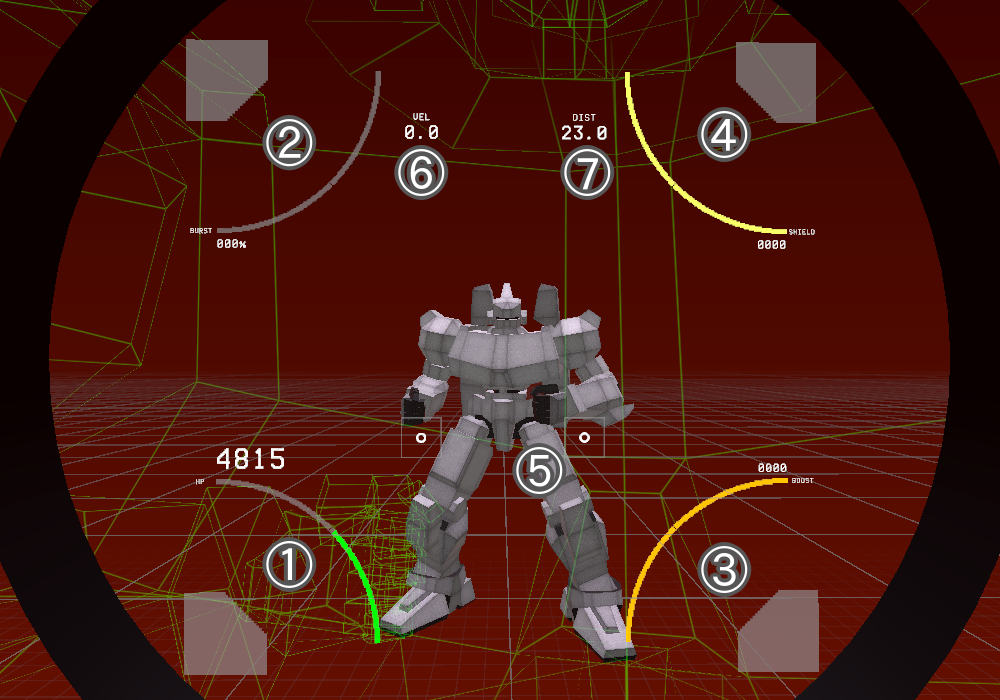
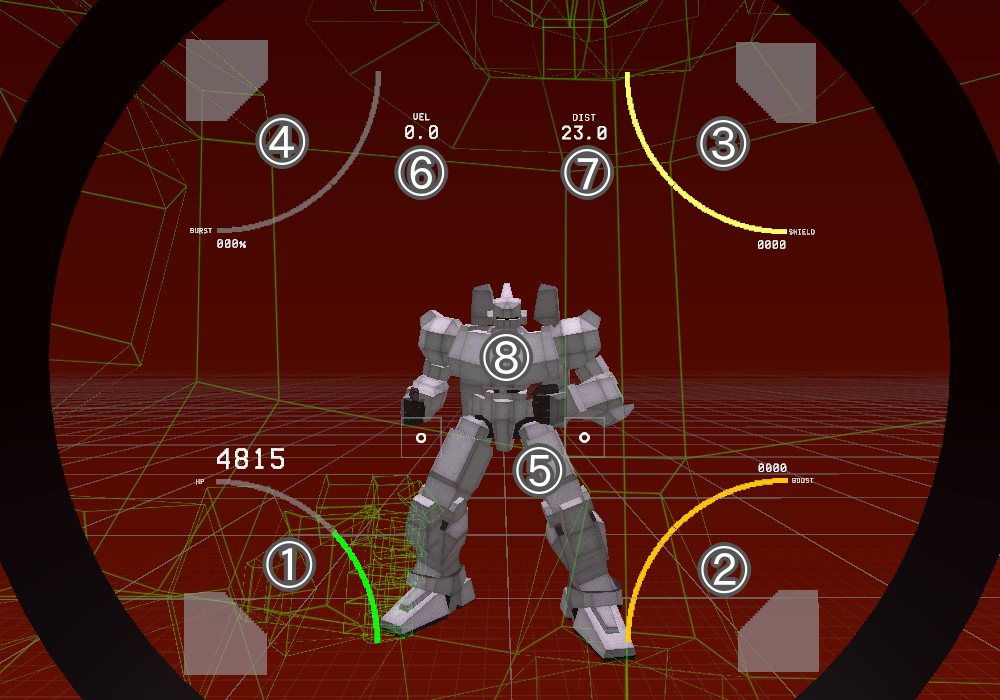
fix hud

diff --git a/_howto/0300_hud.md b/_howto/0300_hud.md
@@ -8,18 +8,18 @@ title: 画面表示の見かた
 * 攻撃を食らうと減っていきます
 * なくなると敗北します
 
-## 2. バーストゲージ
-* 攻撃を食らうと増えていきます
-* 100%を超えると自動的にバーストモードになります
-    * バーストモードは時間経過で減っていきます
-
-## 3. ブーストゲージ
+## 2. ブーストゲージ
 * ステップやジャンプをすると減っていきます
 * 0になるとしばらく使用不能になります
 
-## 4. シールドゲージ
+## 3. シールドゲージ
 * 格闘をガードや射撃を食らうとゲージが減っていきます
 * 0になるとシールドブレイク状態になり、しばらくガードができません
+
+## 4. バーストゲージ
+* 攻撃を食らうと増えていきます
+* 100%を超えると自動的にバーストモードになります
+    * バーストモードは時間経過で減っていきます
 
 ## 5. レバー入力
 * 左右のバーチャルレバーの入力が表示されます
@@ -30,3 +30,6 @@ title: 画面表示の見かた
 ## 7. 相手との距離
 * 相手との距離が表示されます
 * 相手をとらえていないときは表示されません
+
+## 8.敵
+* 殴れ！
